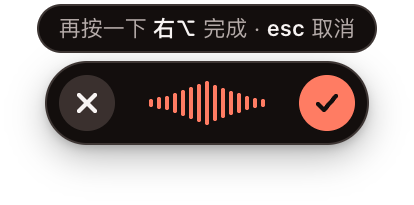
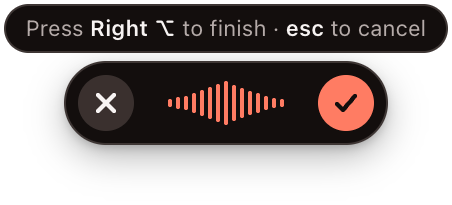
README：截图换成英文（中文版用中文截图），特色里加多语言，设置里加 language；开发文档补加一种语言怎么做和这次的验证记录，测试数 534 → 569
- docs/images：bar.png、home-*.png 换成英文界面；中文版 README 用新加的 *.zh-CN.png
- 去掉"界面目前只有中文"；英文版的排错表改引英文界面上的原话
- 测试：两份 README 引用的截图都要在仓库里

diff --git a/README.md b/README.md
@@ -21,7 +21,7 @@
 </p>
 
 <p align="center">
-  <img src="docs/images/bar.png" width="368" alt="The floating bar while you talk: a waveform that follows your voice, cancel on the left, done on the right" />
+  <img src="docs/images/bar.png" width="402" alt="The floating bar while you talk: a waveform that follows your voice, cancel on the left, done on the right" />
 </p>
 
 <picture>
@@ -51,6 +51,7 @@
 - 🔀 **Pick your model** — Gemini (default) or OpenAI, one click to switch.
 - 📊 **See what it costs** — every call is metered; the home window shows words, time saved and streaks.
 - 🎨 **Three themes** — Ink, Cinnabar, Indigo. Follows light and dark mode.
+- 🌐 **English and 简体中文** — menus, windows and the `speakmore` command follow your Mac's language. Switch any time in Settings; it applies right away.
 
 ## 📦 Install
 
@@ -105,7 +106,7 @@ More detail in the [implementation notes](docs/implementation-notes.md) (Chinese
 ## ⚠ Known gaps
 
 - **Names and jargon get misheard.** Typeless sends on-screen text along as a hint; SpeakMore only sends audio, and has no personal dictionary yet.
-- **Tuned for Mandarin**, with English terms mixed in. English-only dictation hasn't been tuned or tested. The interface is Chinese-only for now.
+- **Tuned for Mandarin**, with English terms mixed in. English-only dictation hasn't been tuned or tested yet (the interface is in English; the prompt isn't).
 - **OpenAI cleans up less thoroughly than Gemini.** The prompt was tuned against Gemini.
 - **If you stop mid-sentence, the model may finish the sentence for you.**
 - Dictation only: no translation or "ask anything". The bar shows on the main display only. No Windows or Linux.
@@ -144,8 +145,9 @@ More detail in the [implementation notes](docs/implementation-notes.md) (Chinese
 | `model` | `gemini/gemini-3.6-flash` | `provider/model`; a provider alone uses its default model |
 | `thinking` | `MINIMAL` | `MINIMAL` / `LOW` / `MEDIUM` / `HIGH`. Higher is slower. Gemini only |
 | `theme` | `ink` | `ink` / `cinnabar` / `indigo` |
+| `language` | `system` | `system` / `en` / `zh-CN`. `system` follows macOS; the `speakmore` command follows your terminal's `LANG`. Languages we don't have fall back to English |
 
-Settings live in `~/.speakmore/settings.json`. For a one-off, put `SPEAKMORE_HOTKEY`, `SPEAKMORE_MODEL`, `GEMINI_THINKING_LEVEL` or `SPEAKMORE_THEME` on the command that starts it; `GEMINI_API_KEY` and `OPENAI_API_KEY` override stored keys.
+Settings live in `~/.speakmore/settings.json`. Theme and language apply immediately; the rest restart the background app. For a one-off, put `SPEAKMORE_HOTKEY`, `SPEAKMORE_MODEL`, `GEMINI_THINKING_LEVEL`, `SPEAKMORE_THEME` or `SPEAKMORE_LANGUAGE` on the command that starts it; `GEMINI_API_KEY` and `OPENAI_API_KEY` override stored keys.
 
 | Provider | Default model | Notes |
 | --- | --- | --- |
@@ -200,14 +202,12 @@ Outside that folder: the `~/.local/bin/speakmore` link, the Keychain entry, the 
 <details>
 <summary><b>🩺 Troubleshooting</b></summary>
 
-The interface is in Chinese, so the messages are quoted as they appear.
-
 | You see | Do this |
 | --- | --- |
-| The key line says `还没验证` (not verified yet) | It couldn't reach Gemini at startup and is using the stored key. Once online, run `speakmore status` |
-| `还差：Gemini 验证` (or OpenAI) | Usually a wrong model name or thinking level, not the key. `speakmore model check` shows the reply; `speakmore config unset model` resets |
-| `还差：按键监听` | The hotkey helper stopped. `speakmore restart`; if that fails, `speakmore logs` |
-| A command says `没有在 5 秒内回话` (no reply in 5 s) | The background app is stuck. `speakmore stop` force-quits it; then run `speakmore` |
+| The key line says "not verified yet" | It couldn't reach Gemini at startup and is using the stored key. Once online, run `speakmore status` |
+| "Missing: Gemini check" (or OpenAI) | Usually a wrong model name or thinking level, not the key. `speakmore model check` shows the reply; `speakmore config unset model` resets |
+| "Missing: key listener" | The hotkey helper stopped. `speakmore restart`; if that fails, `speakmore logs` |
+| A command says "didn't reply within 5 seconds" | The background app is stuck. `speakmore stop` force-quits it; then run `speakmore` |
 | No menu bar icon | On notched MacBooks, extra icons hide behind the notch. ⌘-drag some icons out of the menu bar, or use `speakmore settings` and `speakmore history` |
 
 </details>

diff --git a/README.zh-CN.md b/README.zh-CN.md
@@ -21,12 +21,12 @@
 </p>
 
 <p align="center">
-  <img src="docs/images/bar.png" width="368" alt="说话时屏幕下方的悬浮条：中间的声波跟着声音跳，左边取消，右边完成" />
+  <img src="docs/images/bar.zh-CN.png" width="368" alt="说话时屏幕下方的悬浮条：中间的声波跟着声音跳，左边取消，右边完成" />
 </p>
 
 <picture>
-  <source media="(prefers-color-scheme: dark)" srcset="docs/images/home-dark.png" />
-  <img src="docs/images/home-light.png" alt="主窗口首页：字数、省下的时间、语速、口述时长、每天说了多少的热力图和花费" />
+  <source media="(prefers-color-scheme: dark)" srcset="docs/images/home-dark.zh-CN.png" />
+  <img src="docs/images/home-light.zh-CN.png" alt="主窗口首页：字数、省下的时间、语速、口述时长、每天说了多少的热力图和花费" />
 </picture>
 
 ## 💸 Typeless 一年 $144，这里一个月几块钱
@@ -51,6 +51,7 @@
 - 🔀 **模型自己选**：Gemini（默认）或 OpenAI，设置里点一下就换。
 - 📊 **花多少钱一清二楚**：每次调用都记账；首页看字数、省下的时间、连续天数。
 - 🎨 **三套主题**：墨、朱砂、靛青，跟随系统深浅色。
+- 🌐 **简体中文和英文**：菜单栏、窗口、`speakmore` 命令都跟着系统的语言走，设置里随时能换，当场生效。
 
 ## 📦 安装
 
@@ -105,7 +106,7 @@ flowchart LR
 ## ⚠ 现在的不足
 
 - **专有名词和人名会听错**：Typeless 会把屏幕上的文字一起传上去当参考，这里只有录音，也还没有个人词典。
-- **提示词是按中文调的**（夹着英文词也行）。纯英文听写没有调过，也没测过。界面目前只有中文。
+- **提示词是按中文调的**（夹着英文词也行）。纯英文听写没有调过，也没测过（界面有英文，提示词没有）。
 - **换成 OpenAI 时整理得比 Gemini 粗**：提示词是对着 Gemini 调的。
 - **话说到一半就按停，模型可能自己把后半句补上。**
 - 只有听写，没有翻译和“问任何事”。悬浮条只在主屏幕上。Windows 和 Linux 还没有。
@@ -144,8 +145,9 @@ flowchart LR
 | `model` | `gemini/gemini-3.6-flash` | `厂商/模型`，只写厂商就用它的默认模型 |
 | `thinking` | `MINIMAL` | `MINIMAL` / `LOW` / `MEDIUM` / `HIGH`，越高越慢，只有 Gemini 用得上 |
 | `theme` | `ink` | `ink` 墨 / `cinnabar` 朱砂 / `indigo` 靛青 |
+| `language` | `system` | `system` 跟随系统 / `en` / `zh-CN`。跟随系统时，应用看 macOS 的语言，`speakmore` 命令看终端的 `LANG`；我们没有的语言用英文 |
 
-设置存在 `~/.speakmore/settings.json`。临时换一次可以用环境变量 `SPEAKMORE_HOTKEY`、`SPEAKMORE_MODEL`、`GEMINI_THINKING_LEVEL`、`SPEAKMORE_THEME`，写在启动它的那条命令上；`GEMINI_API_KEY`、`OPENAI_API_KEY` 设着时优先于存着的 key。
+设置存在 `~/.speakmore/settings.json`。主题和语言改了当场生效，别的会重启后台。临时换一次可以用环境变量 `SPEAKMORE_HOTKEY`、`SPEAKMORE_MODEL`、`GEMINI_THINKING_LEVEL`、`SPEAKMORE_THEME`、`SPEAKMORE_LANGUAGE`，写在启动它的那条命令上；`GEMINI_API_KEY`、`OPENAI_API_KEY` 设着时优先于存着的 key。
 
 | 厂商 | 默认模型 | 说明 |
 | --- | --- | --- |
